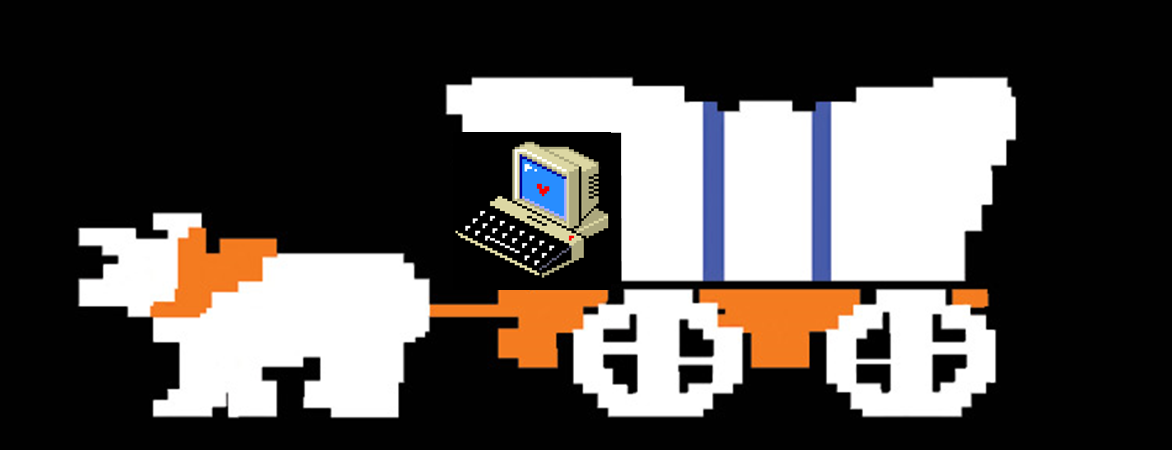
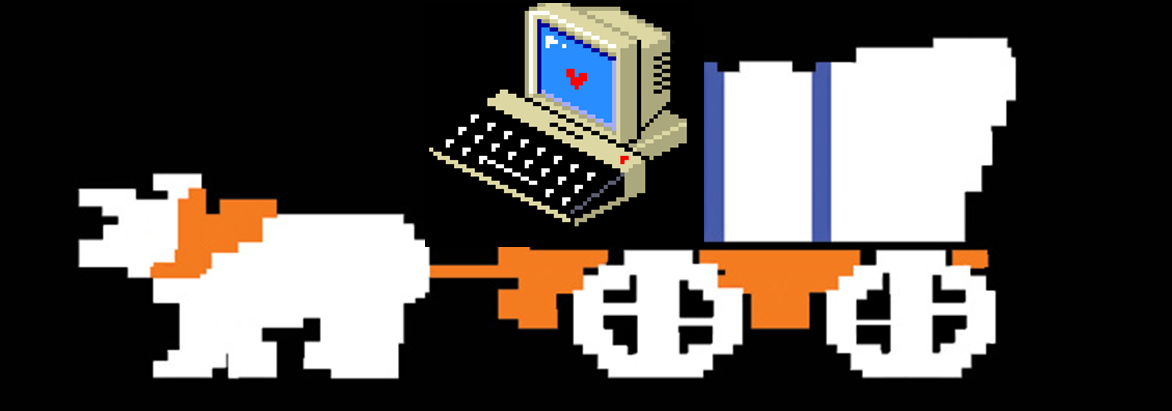
class update 2

diff --git a/598trail/sketch.js b/598trail/sketch.js
@@ -7,14 +7,14 @@
 var computer; // saved image of computer
 var wagon; // saved image of wagon
 var wagonX = 900; // x location of image of wagon
-var dir = 3; // speed and direction of image of wagon
+var dir = 10; // speed and direction of image of wagon
 var font; // saved text font
 var page = 0; // screen start value
+var selection = "";
 var classDay = ["Class", "February 6, 2017"];
 var classDetails = ["Weather:  Snowing", "Health:  Good", "Pace:  Haven't Started"];
-var classOptions = ["Womp, womp. Class is cancelled, because of snow. What will you do?", 
-                    "1. Go to office hours over the weekend.", "2. Do nothing. Hope for the best.", "Which will you choose?"];
-var codingOptions = ["Many kinds of people make the journey to learn Javascript.","Are you:","1.  a total n00b","2.  dabble a bit", "3.  White Hat hacker wannabe", "What is your choice?" ];
+var classOptions = ["Oh no! Class is cancelled because of snow.", "What will you do?", "1. Go to office hours over the weekend.", "2. Do nothing. Hope for the best.", "Which will you choose?"];
+var codingOptions = ["Many kinds of people make the journey to learn Javascript.","Are you:","1.  a total n00b","2.  dabble a bit", "3.  hacker wannabe", "What is your choice?" ];
 var officeDay = ["Office Hours", "February 11, 2017"];
 var officeDetails = ["Weather:  Cloudy", "Health:  Fantastic", "Pace:  Almost there!"];
 var officeOptions = ["After spending time at office hours", 
@@ -73,9 +73,9 @@ if(mouseX > 325 && mouseX < 575 && mouseY > 500 && mouseY < 550) { // parameters
 
 // ROLLING WAGON
 function pageTwo() {
-  image(wagon, wagonX, 250, 500, 175);
+  image(wagon, wagonX, 250, 600, 175);
   wagonX = wagonX - dir;
-  if(wagonX < -425) {
+  if(wagonX < -500) {
     page = page + 1;
   }
 }
@@ -86,6 +86,7 @@ function pageThree() {
   for(i = 0; i < codingOptions.length; i++) {
     text(codingOptions[i], 120, 150 + i * 60);
    }
+  text(selection, 800, 580);
 }
 
 // SNOW STORM & HOMEWORK
@@ -107,15 +108,15 @@ for (i = 0; i < 10; i++) {
   fill(255);
   rect(200, 200, 500, 150);
   for(i = 0; i < classDay.length; i++) {
-    text(classDay[i], 340, 50 + i * 30);
+    text(classDay[i], 220, 140 + i * 30);
    }
    for(i = 0; i < classDetails.length; i++) {
     fill(0);
-    text(classDetails[i], 240, 250 + i * 40);
+    text(classDetails[i], 220, 240 + i * 40);
    }
    for(i = 0; i < classOptions.length; i++) {
     fill(255);
-    text(classOptions[i], 240, 400 + i * 30);
+    text(classOptions[i], 220, 400 + i * 30);
    }
 }
 
@@ -124,7 +125,7 @@ function pageFive() {
   rect(200, 200, 500, 150);
   noStroke();
   for(i = 0; i < officeDay.length; i++) {
-    text(officeDay[i], 340, 50 + i * 30);
+    text(officeDay[i], 220, 140 + i * 30);
    }
    for(i = 0; i < officeDetails.length; i++) {
     fill(0);
@@ -143,9 +144,8 @@ function mousePressed() {
 }
 
 function keyPressed() {
-  text(key, 300, 300);
   if(page == 2 && key == "1" || key == "2" || key == "3") {
-    fill(255);
+    selection = key
   } else if (page == 2 && keyCode == ENTER || key == RETURN) {
     page = 1 + page;
   } else if (page == 3 && keyCode == ENTER || key == RETURN) {
